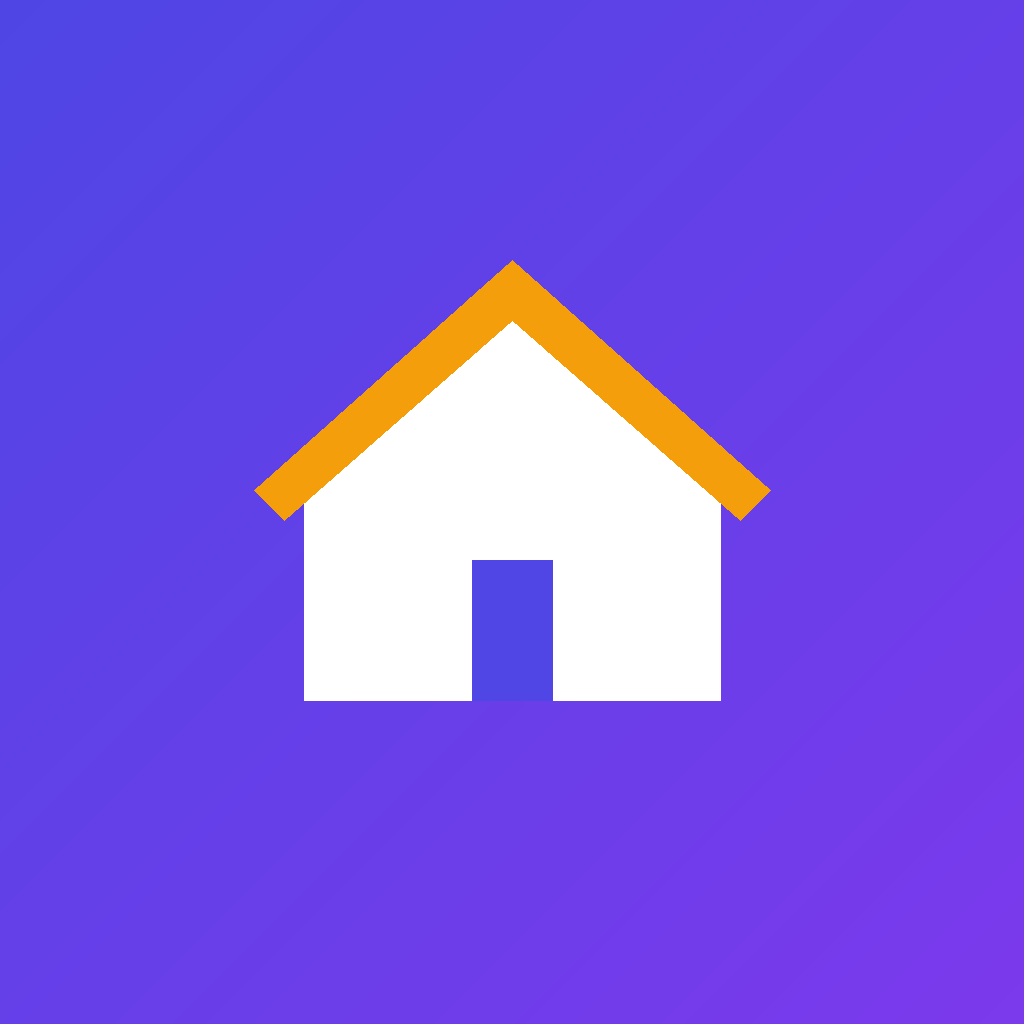
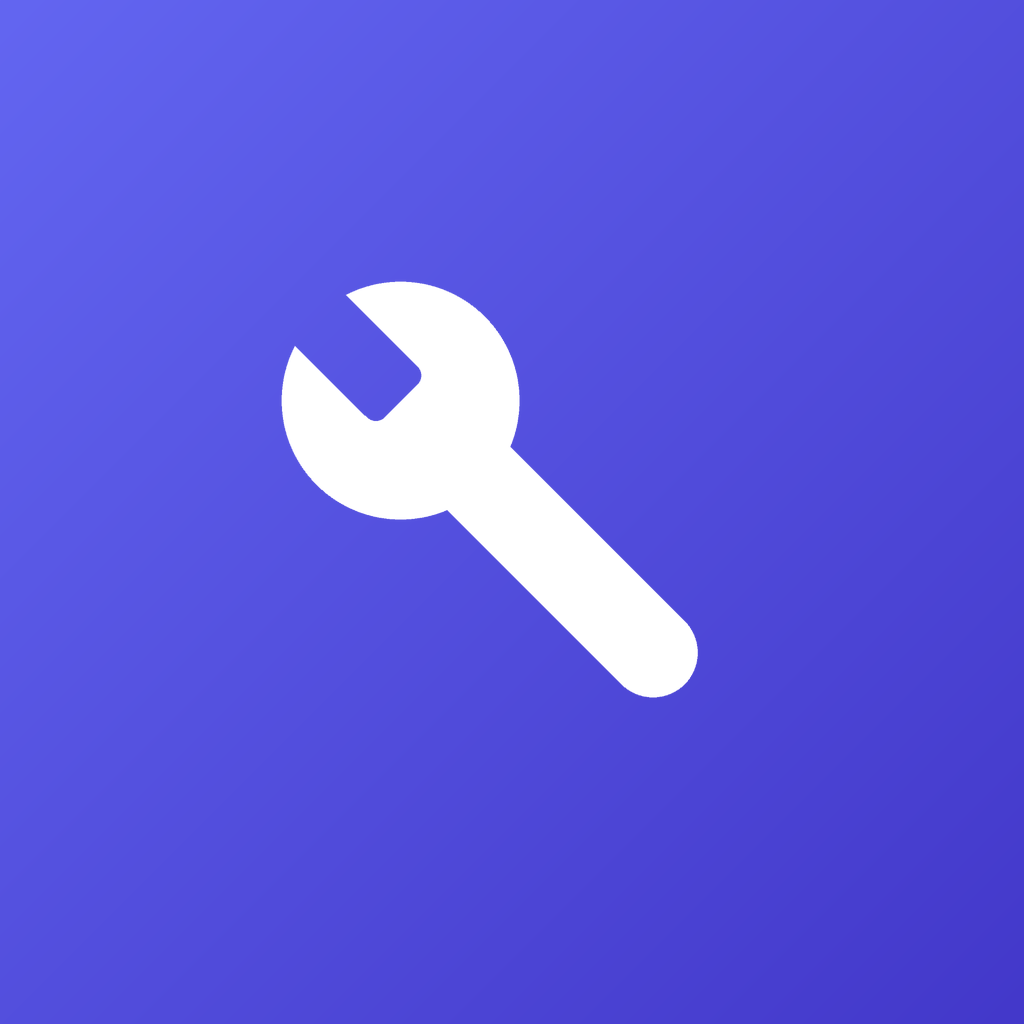
Add files via upload

diff --git a/index.html b/index.html
@@ -72,7 +72,7 @@ const SB_URL='https://gbqchrrupcwzxbutbmbd.supabase.co';
 const SB_KEY='eyJhbGciOiJIUzI1NiIsInR5cCI6IkpXVCJ9.eyJpc3MiOiJzdXBhYmFzZSIsInJlZiI6ImdicWNocnJ1cGN3enhidXRibWJkIiwicm9sZSI6ImFub24iLCJpYXQiOjE3OTI0MzY4NzYsImV4cCI6MjEwODAxMjg3Nn0.-wMcO94AU7wkKBjsXY6_qnwWd4ez2OfNPs4IyQW74Ww';/* ضع مفتاح anon public أو Publishable بين علامتي الاقتباس */
 const CLOUD=!!(SB_URL&&SB_KEY);
 if(!S.cid){S.cid='c'+Date.now().toString(36)+Math.random().toString(36).slice(2,8);save()}
-async function sb(p,o={}){const r=await fetch(SB_URL+'/rest/v1/'+p,{...o,headers:{apikey:SB_KEY,...(SB_KEY.startsWith('eyJ')?{Authorization:'Bearer '+SB_KEY}:{}),'Content-Type':'application/json',...(o.headers||{})}});if(!r.ok)throw new Error(r.status);return r.status===204?null:r.json()}
+async function sb(p,o={}){const r=await fetch(SB_URL+'/rest/v1/'+p,{...o,headers:{apikey:SB_KEY,...(SB_KEY.startsWith('eyJ')?{Authorization:'Bearer '+SB_KEY}:{}),'Content-Type':'application/json',...(o.headers||{})}});if(!r.ok)throw new Error(r.status);const t=await r.text();return t?JSON.parse(t):null}
 const cloudPush=b=>CLOUD&&sb('bookings',{method:'POST',body:JSON.stringify({...b,cid:S.cid})}).catch(e=>toast('تعذّر الاتصال ('+e.message+')'));
 const cloudSt=(id,st)=>CLOUD&&sb('bookings?id=eq.'+id,{method:'PATCH',body:JSON.stringify({st})}).catch(()=>{});
 let syncing=0;
@@ -146,7 +146,9 @@ function sendR(id){const b=S.bk.find(x=>x.id===id);b.rt=RT;(S.rv[b.pid]=S.rv[b.p
 function favs(){const l=P.filter(p=>S.fav.includes(p.id));return `<h1>❤ المفضلة</h1><div style="margin-top:14px">${l.length?l.map(pc).join(''):'<div class="card mut" style="text-align:center">لم تضف أي حرفي بعد. اضغط 🤍 على أي حرفي لحفظه هنا.</div>'}</div>`}
 function me(){return `<h1>👤 حسابي</h1><div class="card" style="margin-top:14px"><label>الاسم</label><input class="in" id="mn" value="${esc(S.name)}"><label>الهاتف</label><input class="in" id="mp" type="tel" inputmode="tel" value="${esc(S.phone)}"><label>العنوان</label><input class="in" id="ma" value="${esc(S.addr)}"><button class="btn" onclick="S.name=$('mn').value.trim();S.phone=$('mp').value.trim();S.addr=$('ma').value.trim();save();toast('تم الحفظ')">حفظ</button></div>
 <div class="card"><div class="li"><span>🌐 Langue · اللغة · Language</span></div><div class="chips">${[['ar','العربية'],['fr','Français'],['en','English']].map(c=>`<span class="chip ${LANG===c[0]?'on':''}" onclick="setLang('${c[0]}')">${c[1]}</span>`).join('')}</div><div class="li"><span>🌓 المظهر</span><button class="btn s sm" onclick="tog()">تبديل</button></div><div class="li"><span>🛠 هل أنت حرفي؟</span><button class="btn sm" onclick="join()">انضم إلينا</button></div><div class="li"><span>🧰 وضع الحرفي (تجريبي)</span><button class="btn sm" onclick="pmode()">فتح</button></div><div class="li"><span>🗑 مسح كل البيانات</span><button class="btn sm d" onclick="if(confirm(tr('سيتم حذف حسابك وحجوزاتك. متابعة؟'))){try{localStorage.removeItem('harfi')}catch(e){}location.hash='#/';location.reload()}">مسح</button></div></div><p class="mut" style="text-align:center">حرفي · الإصدار 1.1</p>`}
-function join(){sheet(`<h2 style="margin-top:0">انضم كحرفي</h2><label>الاسم</label><input class="in" id="jn"><label>الحرفة</label><select class="in" id="jc">${CATS.map(c=>`<option>${c[2]} ${c[1]}</option>`).join('')}</select><label>الهاتف</label><input class="in" id="jp" type="tel" inputmode="tel"><button class="btn" onclick="if($('jn').value.trim()&&$('jp').value.trim().length>=8){S.join={n:$('jn').value,c:$('jc').value,p:$('jp').value};save();closeS();toast('تم تسجيل طلبك، سنتواصل معك')}else toast('أكمل الحقول')">إرسال الطلب</button>`)}
+async function joinSend(){const n=$('jn').value.trim(),c=$('jc').value,ph=$('jp').value.trim();if(!n||ph.length<8){toast('أكمل الحقول');return}S.join={n,c,p:ph};save();closeS();if(!CLOUD){toast('تم تسجيل طلبك، سنتواصل معك');return}try{await sb('join_requests',{method:'POST',body:JSON.stringify({id:Date.now(),n,c,ph,cr:Date.now()})});toast('تم إرسال طلبك، سنتواصل معك')}catch(e){toast('تعذّر الإرسال ('+e.message+')')}}
+async function loadProv(){if(!CLOUD)return;try{const rows=await sb('providers?select=*');let ch=0;rows.forEach(r=>{if(!PI[r.id]&&CI[r.c]){const p={id:r.id,n:r.n,c:r.c,r:+r.r,j:r.j,p:r.p,y:r.y,v:r.v,b:r.b,ph:r.ph,s:r.s};P.push(p);PI[p.id]=p;ch=1}});if(ch)route()}catch(e){}}
+function join(){sheet(`<h2 style="margin-top:0">انضم كحرفي</h2><label>الاسم</label><input class="in" id="jn"><label>الحرفة</label><select class="in" id="jc">${CATS.map(c=>`<option value="${c[0]}">${c[2]} ${c[1]}</option>`).join('')}</select><label>الهاتف</label><input class="in" id="jp" type="tel" inputmode="tel"><button class="btn" onclick="joinSend()">إرسال الطلب</button>`)}
 /* ===== i18n + provider dashboard ===== */
 let LANG=S.lang||'ar';
 const LOC=()=>({ar:'ar-DZ',fr:'fr-FR',en:'en-GB'}[LANG]),ba=()=>LANG==='ar'?'→':'←';
@@ -219,7 +221,7 @@ $('nav').style.display=sub?'none':'flex';
 $('nav').innerHTML=`<div>${[['','🏠','الرئيسية'],['orders','📋','حجوزاتي'],['fav','❤','المفضلة'],['me','👤','حسابي']].map(t=>`<a href="#/${t[0]}" class="${(a||'')===t[0]||(t[0]===''&&a==='c')?'on':''}"><span>${t[1]}</span>${t[2]}</a>`).join('')}</div>`;
 }
 addEventListener('hashchange',()=>{route();scrollTo(0,0)});
-route();initLang();sync();
+route();initLang();sync();loadProv();setInterval(loadProv,60000);
 setTimeout(()=>{const l=$('ld');l.classList.add('h');setTimeout(()=>l.remove(),500)},1300);
 </script>
 </body>

diff --git a/admin.html b/admin.html
@@ -1,0 +1,16 @@
+<!DOCTYPE html><html lang="ar" dir="rtl"><head><meta charset="utf-8"><meta name="viewport" content="width=device-width,initial-scale=1"><title>إدارة حرفي</title>
+<style>body{font-family:Tahoma,Arial,sans-serif;background:#0f1020;color:#eee;margin:0;padding:16px;max-width:560px;margin:auto}input,button{font:inherit;padding:12px;border-radius:12px;border:0;width:100%;box-sizing:border-box;margin-top:8px}input{background:#1b1c36;color:#fff}button{background:#4f46e5;color:#fff;font-weight:700;cursor:pointer}.c{background:#1b1c36;border-radius:16px;padding:14px;margin-top:12px}.r{display:flex;gap:8px}.r button{margin-top:10px}.no{background:#ef4444}.m{color:#a5a7c9;font-size:14px}.b{display:inline-block;padding:2px 10px;border-radius:20px;background:#333659;font-size:13px}</style></head><body>
+<h2>🛠 إدارة طلبات الانضمام</h2>
+<div id="lg"><input id="pw" type="password" placeholder="كلمة سر الإدارة"><button onclick="go()">دخول</button></div>
+<div id="ls"></div><div id="er" class="m"></div>
+<script>
+const U='https://gbqchrrupcwzxbutbmbd.supabase.co',K='eyJhbGciOiJIUzI1NiIsInR5cCI6IkpXVCJ9.eyJpc3MiOiJzdXBhYmFzZSIsInJlZiI6ImdicWNocnJ1cGN3enhidXRibWJkIiwicm9sZSI6ImFub24iLCJpYXQiOjE3OTI0MzY4NzYsImV4cCI6MjEwODAxMjg3Nn0.-wMcO94AU7wkKBjsXY6_qnwWd4ez2OfNPs4IyQW74Ww';
+const CT={plumb:'سباكة',elec:'كهرباء',clean:'تنظيف',paint:'دهان',wood:'نجارة',ac:'تكييف',weld:'حدادة',furn:'تركيب أثاث',pest:'مكافحة حشرات',move:'نقل أثاث',garden:'بستنة',appl:'صيانة أجهزة'};
+const ST={pending:'بانتظار القرار',approved:'مقبول',rejected:'مرفوض'};
+const esc=s=>String(s??'').replace(/[&<>"]/g,c=>({'&':'&amp;','<':'&lt;','>':'&gt;','"':'&quot;'}[c]));
+let PW='';
+async function rpc(f,b){const r=await fetch(U+'/rest/v1/rpc/'+f,{method:'POST',headers:{apikey:K,'Content-Type':'application/json'},body:JSON.stringify(b)});const t=await r.text();if(!r.ok)throw new Error(t.includes('bad password')?'كلمة السر خاطئة':'خطأ '+r.status);return t?JSON.parse(t):null}
+async function go(){PW=document.getElementById('pw').value;load()}
+async function load(){er.textContent='';try{const L=await rpc('admin_list',{pw:PW});lg.style.display='none';ls.innerHTML=L.length?L.map(q=>'<div class="c"><b>'+esc(q.n)+'</b> <span class="b">'+ST[q.st]+'</span><div class="m">'+(CT[q.c]||esc(q.c))+' · 📞 <a style="color:#9aa0ff" href="tel:'+esc(q.ph)+'">'+esc(q.ph)+'</a><br>'+new Date(+q.cr).toLocaleString('ar-DZ')+'</div>'+(q.st==='pending'?'<div class="r"><button onclick="dc('+q.id+',true)">قبول</button><button class="no" onclick="dc('+q.id+',false)">رفض</button></div>':'')+'</div>').join(''):'<div class="c m">لا توجد طلبات بعد.</div>'}catch(e){er.textContent=e.message}}
+async function dc(id,ok){if(!confirm(ok?'قبول هذا الحرفي؟':'رفض الطلب؟'))return;try{await rpc('admin_decide',{pw:PW,rid:id,ok});load()}catch(e){er.textContent=e.message}}
+</script></body></html>
